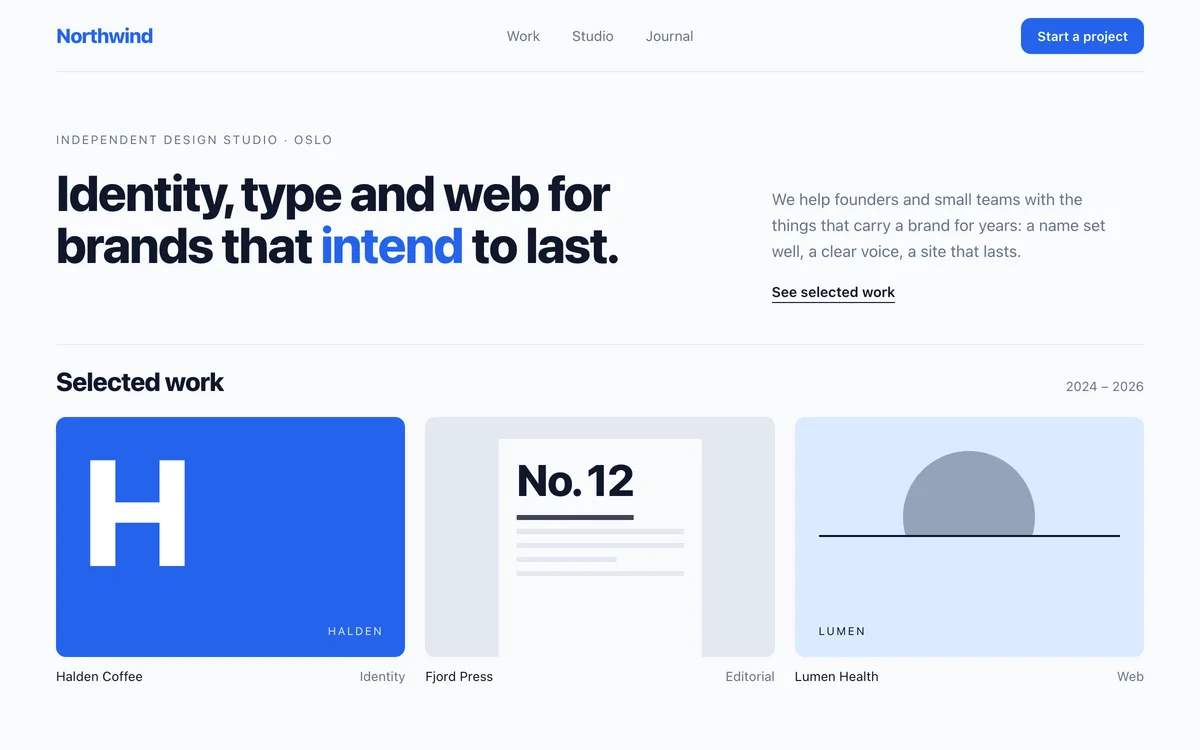
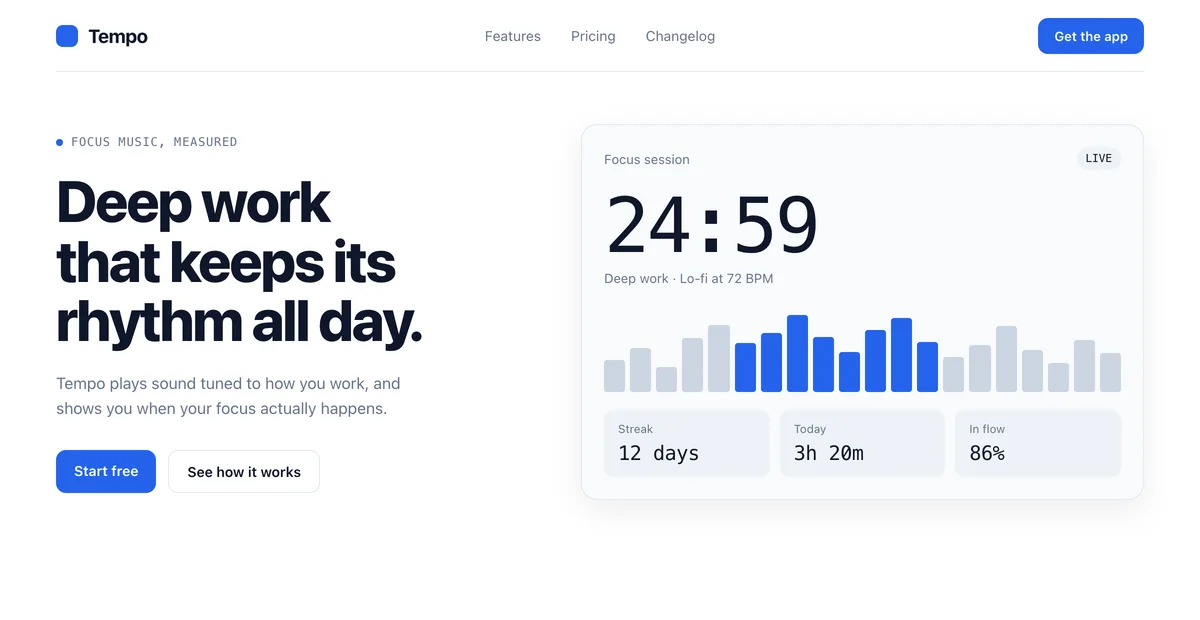
AI-tools example: Tempo, a visual product page instead of the serif studio
A made-up focus-music app keeps its pink, layout and words; the AI borrows a
mood from two dark product sites in the library (plastic.audio,
tomjohn.design): near-black surfaces, warm off-white type, mono numbers, one
blue for data. Free fonts (Geist, Geist Mono). The product mock-up (timer,
waveform, stats) is drawn in CSS from the same variables.

diff --git a/scripts/render-ai-example.ts b/scripts/render-ai-example.ts
@@ -2,12 +2,12 @@
 // scripts/render-ai-example.ts
 //
 // The before/after on the Pro page, and the ethical use it shows. A made-up
-// studio, Northwind, keeps its own layout, words and brand green; an AI tool
-// looks up two studios in the library and borrows principles, not a look: a
-// serif headline over a plain sans body, quiet warm neutrals, one soft
-// highlight. Only free, openly licensed fonts; the references' paid faces are
-// skipped. Every colour in the "after" is one the library returned for a
-// reference (or Northwind's own green), so the picture is a real result.
+// app, Tempo, keeps its own layout, words and brand pink; an AI tool looks up
+// two dark product sites in the library and borrows a mood, not a look:
+// near-black surfaces, warm off-white type, a mono face for numbers, one
+// second colour for data. Only free, openly licensed fonts. Every colour in
+// the "after" is one the library returned for a reference, or Tempo's own
+// pink, so the picture is a real result.
 //
 //   bun scripts/render-ai-example.ts   → public/pro/ai-before.webp, ai-after.webp, ai-example.json
 import { writeFileSync } from 'node:fs'
@@ -17,60 +17,57 @@ import { resolveSite } from '@/lib/read/resolve-site'
 import { getSiteDetail } from '@/lib/read/site-detail'
 
 // Two library sites as references: cues, not a copy of either.
-const REFERENCES = ['goodside.studio', 'compact.studio']
+const REFERENCES = ['plastic.audio/drum-pad', 'tomjohn.design']
+// Tempo is made up; its pink is its own brand colour, taken from no one.
+const BRAND = '#ff4d8d'
+// Free, openly licensed (SIL OFL), on Google Fonts.
+const FONTS = { sans: 'Geist', mono: 'Geist Mono' }
 
-// One page, Northwind's own: the same layout and words in both pictures; only
-// the type and colour variables change. Project tiles are abstract artwork
-// drawn from the palette, so nothing is borrowed from any site.
+// One page, Tempo's own: identical layout and words in both pictures; only the
+// type and colour variables change. The product is drawn in CSS.
 const page = (vars: string, head = '') => `<!doctype html><html><head><meta charset="utf-8">${head}<style>
 :root{${vars}}
 *{box-sizing:border-box}html,body{margin:0}
-body{background:var(--bg);color:var(--ink);font-family:var(--body);-webkit-font-smoothing:antialiased}
+body{background:var(--bg);color:var(--ink);font-family:var(--sans);-webkit-font-smoothing:antialiased;height:620px;overflow:hidden}
 .wrap{padding:0 56px}
 nav{display:grid;grid-template-columns:1fr auto 1fr;align-items:center;height:72px;border-bottom:1px solid var(--line)}
-.logo{font-family:var(--display);font-size:var(--logo-size);font-weight:var(--display-weight);letter-spacing:var(--display-track);color:var(--brand)}
-.links{display:flex;gap:32px;font-size:14px;color:var(--muted)}
+.logo{display:flex;align-items:center;gap:10px;font-weight:700;font-size:19px;letter-spacing:-.02em}
+.logo i{width:22px;height:22px;border-radius:7px;background:var(--brand)}
+.links{display:flex;gap:30px;font-size:14px;color:var(--muted)}
 .cta{justify-self:end;font-size:13px;font-weight:600;padding:10px 16px;border-radius:var(--radius);background:var(--brand);color:var(--on-brand)}
-.hero{display:grid;grid-template-columns:7fr 4fr;gap:64px;align-items:end;padding:60px 0 44px}
-.label{font-size:12px;letter-spacing:.14em;text-transform:uppercase;color:var(--muted);margin:0 0 20px}
-h1{font-family:var(--display);font-weight:var(--display-weight);font-size:var(--h1-size);line-height:1.04;letter-spacing:var(--display-track);margin:0;text-wrap:balance;min-height:calc(2 * 1.04 * 64px)}
-h1 em{font-style:var(--em-style);color:var(--brand)}
-.intro{font-size:16px;line-height:1.6;color:var(--muted);margin:0 0 18px;text-wrap:pretty;max-width:34ch}
-.more{font-size:14px;font-weight:600;color:var(--ink);border-bottom:1px solid var(--ink);padding-bottom:2px}
-.head{display:flex;justify-content:space-between;align-items:baseline;border-top:1px solid var(--line);padding-top:20px}
-.head h2{font-family:var(--display);font-weight:var(--display-weight);font-size:26px;line-height:32px;letter-spacing:var(--display-track);margin:0}
-.head span{font-size:13px;color:var(--muted)}
-.grid{display:grid;grid-template-columns:repeat(3,1fr);gap:20px;margin-top:20px}
-.tile{aspect-ratio:16/11;border-radius:var(--radius);position:relative;overflow:hidden}
-.tile small{position:absolute;font-size:11px;letter-spacing:.16em;text-transform:uppercase}
-.t1{background:var(--brand);color:var(--on-brand)}.t1 b{position:absolute;left:26px;top:18px;font-family:var(--display);font-weight:var(--display-weight);font-size:150px;line-height:1}.t1 small{right:22px;bottom:20px;opacity:.85}
-.t2{background:var(--surface)}.t2 .pg{position:absolute;left:50%;top:22px;bottom:0;width:58%;transform:translateX(-50%);background:var(--bg);padding:18px 18px 0;box-shadow:0 1px 0 var(--line)}
-.t2 .no{font-family:var(--display);font-weight:var(--display-weight);font-size:44px;line-height:1;letter-spacing:var(--display-track)}
-.t2 .ln{height:5px;background:var(--line);margin-top:9px}.t2 .ln:nth-child(2){margin-top:14px;width:70%;background:var(--ink);opacity:.8}.t2 .ln:nth-child(5){width:60%}
-.t3{background:var(--highlight)}.t3 u{position:absolute;width:132px;height:132px;border-radius:50%;background:var(--accent);left:50%;top:34px;transform:translateX(-50%)}
-.t3 s{position:absolute;left:0;right:0;top:118px;bottom:0;background:var(--highlight)}.t3 i{position:absolute;left:24px;right:24px;top:118px;height:2px;background:var(--ink)}
-.t3 small{left:24px;bottom:20px;color:var(--ink)}
-.cap{display:flex;justify-content:space-between;margin:10px 0 0;font-size:13px;line-height:18px}.cap span:last-child{color:var(--muted)}
+.hero{display:grid;grid-template-columns:5fr 6fr;gap:56px;align-items:center;padding:52px 0}
+.label{display:inline-flex;align-items:center;gap:8px;font-family:var(--mono);font-size:12px;letter-spacing:.06em;text-transform:uppercase;color:var(--muted);margin:0 0 22px}
+.label b{width:7px;height:7px;border-radius:50%;background:var(--brand)}
+h1{font-weight:var(--h1-weight);font-size:58px;line-height:1.02;letter-spacing:-.035em;margin:0;text-wrap:balance;min-height:calc(3 * 1.02 * 58px)}
+.intro{font-size:16px;line-height:1.6;color:var(--muted);margin:22px 0 28px;max-width:36ch;text-wrap:pretty}
+.btns{display:flex;gap:12px}.btns span{font-size:14px;font-weight:600;padding:12px 18px;border-radius:var(--radius)}
+.b1{background:var(--brand);color:var(--on-brand)}.b2{border:1px solid var(--line);color:var(--ink)}
+.app{background:var(--surface);border:1px solid var(--line);border-radius:calc(var(--radius) * 1.6);padding:22px;box-shadow:var(--shadow)}
+.top{display:flex;justify-content:space-between;align-items:center;font-size:13px;color:var(--muted)}
+.chip{font-family:var(--mono);font-size:11px;padding:5px 9px;border-radius:999px;background:var(--chip);color:var(--ink)}
+.timer{font-family:var(--mono);font-size:76px;font-weight:500;letter-spacing:-.04em;line-height:1;margin:18px 0 6px}
+.sub{font-size:13px;color:var(--muted)}
+.wave{display:flex;align-items:end;gap:5px;height:84px;margin:22px 0 18px}
+.wave i{flex:1;border-radius:3px;background:var(--data)}
+.wave i.on{background:var(--brand)}
+.stats{display:grid;grid-template-columns:repeat(3,1fr);gap:10px}
+.stat{background:var(--chip);border-radius:var(--radius);padding:12px 14px}
+.stat small{display:block;font-size:11.5px;color:var(--muted)}
+.stat b{display:block;font-family:var(--mono);font-size:20px;font-weight:500;margin-top:6px;letter-spacing:-.02em}
 </style></head><body><div class="wrap">
-<nav><span class="logo">Northwind</span><span class="links"><span>Work</span><span>Studio</span><span>Journal</span></span><span class="cta">Start a project</span></nav>
-<section class="hero"><div><p class="label">Independent design studio · Oslo</p><h1>Identity, type and web for brands that <em>intend</em> to last.</h1></div>
-<div><p class="intro">We help founders and small teams with the things that carry a brand for years: a name set well, a clear voice, a site that lasts.</p><span class="more">See selected work</span></div></section>
-<div class="head"><h2>Selected work</h2><span>2024 – 2026</span></div>
-<div class="grid"><div><div class="tile t1"><b>H</b><small>Halden</small></div><p class="cap"><span>Halden Coffee</span><span>Identity</span></p></div>
-<div><div class="tile t2"><div class="pg"><div class="no">No. 12</div><div class="ln"></div><div class="ln"></div><div class="ln"></div><div class="ln"></div><div class="ln"></div></div></div><p class="cap"><span>Fjord Press</span><span>Editorial</span></p></div>
-<div><div class="tile t3"><u></u><s></s><i></i><small>Lumen</small></div><p class="cap"><span>Lumen Health</span><span>Web</span></p></div></div>
-</div></body></html>`
+<nav><span class="logo"><i></i>Tempo</span><span class="links"><span>Features</span><span>Pricing</span><span>Changelog</span></span><span class="cta">Get the app</span></nav>
+<section class="hero"><div><p class="label"><b></b>Focus music, measured</p><h1>Deep work that keeps its rhythm all day.</h1>
+<p class="intro">Tempo plays sound tuned to how you work, and shows you when your focus actually happens.</p>
+<div class="btns"><span class="b1">Start free</span><span class="b2">See how it works</span></div></div>
+<div class="app"><div class="top"><span>Focus session</span><span class="chip">LIVE</span></div>
+<div class="timer">24:59</div><div class="sub">Deep work · Lo-fi at 72 BPM</div>
+<div class="wave">${[38, 52, 30, 64, 80, 58, 70, 92, 66, 48, 74, 88, 60, 42, 56, 78, 50, 34, 62, 46].map((h, i) => `<i class="${i > 4 && i < 13 ? 'on' : ''}" style="height:${h}%"></i>`).join('')}</div>
+<div class="stats"><div class="stat"><small>Streak</small><b>12 days</b></div><div class="stat"><small>Today</small><b>3h 20m</b></div><div class="stat"><small>In flow</small><b>86%</b></div></div></div>
+</section></div></body></html>`
 
 // The starter: the defaults a new project tends to have.
-const before = page(`--bg:#f8fafc;--ink:#0f172a;--muted:#64748b;--line:#e2e8f0;--brand:#2563eb;--on-brand:#ffffff;--surface:#e2e8f0;--highlight:#dbeafe;--accent:#94a3b8;
---display:system-ui,-apple-system,sans-serif;--body:system-ui,-apple-system,sans-serif;--display-weight:800;--display-track:-.03em;--h1-size:50px;--logo-size:20px;--em-style:normal;--radius:10px`)
-
-// Northwind is a made-up studio; its green is its own brand colour, not taken
-// from anyone.
-const BRAND = '#1f5c45'
-// Free, openly licensed faces only (SIL OFL), both on Google Fonts. The paid
-// faces the references use (Epicene Text, BureauSerif) are skipped.
-const FONTS = { heading: 'Instrument Serif', body: 'Geist' }
+const before = page(`--bg:#ffffff;--ink:#0f172a;--muted:#64748b;--line:#e2e8f0;--brand:#2563eb;--on-brand:#ffffff;--surface:#f8fafc;--chip:#eef2f7;--data:#cbd5e1;
+--sans:system-ui,-apple-system,sans-serif;--mono:ui-monospace,Menlo,monospace;--h1-weight:800;--radius:10px;--shadow:0 10px 30px rgba(15,23,42,.08)`)
 
 async function main() {
   const [a, b] = await Promise.all(REFERENCES.map(async s => {
@@ -78,22 +75,27 @@ async function main() {
     if (!d) throw new Error(`${s} not found`)
     return d
   }))
-  const hex = (d: typeof a, h: string) => d.colors.find(c => c.hex_value.toLowerCase() === h)?.hex_value
-  // The palette mood, from the colours the library returned for each site.
+  const pick = (d: typeof a, h: string) => {
+    const c = d.colors.find(x => x.hex_value.toLowerCase() === h)?.hex_value
+    if (!c) throw new Error(`${h} not returned for ${d.url}`)
+    return c
+  }
+  // The mood, from the colours the library returned for each reference.
   const palette = {
-    background: hex(a, '#ffffff')!,          // goodside.studio: white ground
-    text: hex(b, '#1a1c27')!,                // compact.studio: deep ink, not pure black
-    stone: hex(b, '#dccdc4')!,               // compact.studio: warm stone neutral
-    muted: hex(a, '#696969')!,               // goodside.studio: quiet grey
-    highlight: hex(a, '#ffffd0')!,           // goodside.studio: soft highlight
+    background: pick(a, '#0a0a0a'),   // plastic.audio: near-black ground
+    surface: pick(a, '#1e1e1e'),      // plastic.audio: raised surface
+    text: pick(a, '#e6e2da'),         // plastic.audio: warm off-white type
+    muted: pick(b, '#a3a3a3'),        // tomjohn.design: quiet grey
+    chip: pick(b, '#222222'),         // tomjohn.design: inset surface
+    data: pick(b, '#3a50fc'),         // tomjohn.design: one electric blue, for data
     brand: BRAND,
   }
-  const after = page(`--bg:${palette.background};--ink:${palette.text};--muted:${palette.muted};--line:${palette.stone};--brand:${palette.brand};--on-brand:${palette.background};--surface:${palette.stone};--highlight:${palette.highlight};--accent:${palette.brand};
---display:"${FONTS.heading}", ui-serif, Georgia, serif;--body:"${FONTS.body}", ui-sans-serif, system-ui, sans-serif;--display-weight:400;--display-track:-.015em;--h1-size:64px;--logo-size:28px;--em-style:italic;--radius:2px`,
-    '<link rel="stylesheet" href="https://fonts.googleapis.com/css2?family=Instrument+Serif:ital@0;1&family=Geist:wght@400;600&display=swap">')
+  const after = page(`--bg:${palette.background};--ink:${palette.text};--muted:${palette.muted};--line:${palette.surface};--brand:${palette.brand};--on-brand:${palette.background};--surface:${palette.surface};--chip:${palette.chip};--data:${palette.data};
+--sans:"${FONTS.sans}", ui-sans-serif, system-ui, sans-serif;--mono:"${FONTS.mono}", ui-monospace, monospace;--h1-weight:600;--radius:12px;--shadow:0 30px 80px -30px rgba(0,0,0,.8)`,
+    '<link rel="stylesheet" href="https://fonts.googleapis.com/css2?family=Geist:wght@400;500;600;700&family=Geist+Mono:wght@400;500&display=swap">')
 
   const br = await chromium.launch({ channel: 'chrome' })
-  const p = await br.newPage({ viewport: { width: 1200, height: 750 }, deviceScaleFactor: 2 })
+  const p = await br.newPage({ viewport: { width: 1200, height: 620 }, deviceScaleFactor: 2 })
   for (const [name, html] of [['before', before], ['after', after]] as const) {
     await p.setContent(html, { waitUntil: 'networkidle' }); await p.waitForTimeout(800)
     const png = await p.screenshot()
@@ -101,11 +103,10 @@ async function main() {
   }
   await br.close()
   const example = {
-    studio: 'Northwind',
-    references: REFERENCES,
-    fonts: [FONTS.heading, FONTS.body],
-    skipped: [...new Set([...a.typography, ...b.typography].map(t => t.font_family).filter(f => !Object.values(FONTS).includes(f) && f !== 'Instrument Serif'))],
-    colors: [palette.background, palette.text, palette.stone, palette.highlight, palette.brand],
+    product: 'Tempo',
+    references: REFERENCES.map(r => r.split('/')[0]),
+    fonts: [FONTS.sans, FONTS.mono],
+    colors: [palette.background, palette.surface, palette.text, palette.data, palette.brand],
   }
   writeFileSync('public/pro/ai-example.json', JSON.stringify(example, null, 2) + '\n')
   console.log(JSON.stringify(example))

diff --git a/components/pro-extras.tsx b/components/pro-extras.tsx
@@ -53,17 +53,17 @@ export function ProExtras({ sample }: { sample: ProSample }) {
         title="In your AI tools"
         foot={<span className={CARD.meta}>Inspiration, not imitation: take colours and type as a starting point; don&apos;t copy logos, words, images or layouts, and license any paid font. <Link href="/terms" className="underline underline-offset-2 hover:text-ink">Terms</Link></span>}
       >
-        <p className="text-[14px] leading-[1.45] text-ink">“Find studios with a serif display face. Use their type and colour mood as a starting point for {AI_EXAMPLE.studio}. Keep our green, our layout and our words.”</p>
+        <p className="text-[14px] leading-[1.45] text-ink text-pretty">“Find dark product sites with one bright accent. Use their mood for {AI_EXAMPLE.product}, our focus-music app. Keep our pink, our layout and our words.”</p>
         <div className="mt-3">
-          <CompareSlider before="/pro/ai-before.webp" after="/pro/ai-after.webp" alt={`${AI_EXAMPLE.studio}'s landing page`} />
+          <CompareSlider before="/pro/ai-before.webp" after="/pro/ai-after.webp" alt={`${AI_EXAMPLE.product}'s landing page`} ratio="1200 / 620" />
         </div>
         <ol className="mt-3.5 flex flex-col gap-2.5">
           {[
             <>Searched the library and found {AI_EXAMPLE.references.join(' and ')}.</>,
-            <>Borrowed the principle, not the look: a serif headline over a plain sans body, quiet warm neutrals, one soft highlight.</>,
-            <>Kept {AI_EXAMPLE.studio}&apos;s own green, layout and words, and chose free fonts ({AI_EXAMPLE.fonts.join(', ')}) over the references&apos; paid ones ({AI_EXAMPLE.skipped.join(', ')}).</>,
+            <>Borrowed the mood, not the look: near-black surfaces, warm off-white type, a mono face for numbers, one blue for data.</>,
+            <>Kept {AI_EXAMPLE.product}&apos;s own pink, layout and words, with free fonts ({AI_EXAMPLE.fonts.join(' and ')}).</>,
           ].map((step, i) => (
-            <li key={i} className="grid grid-cols-[18px_minmax(0,1fr)] gap-1.5 text-[13px] leading-[1.45] text-ink-2">
+            <li key={i} className="grid grid-cols-[18px_minmax(0,1fr)] gap-1.5 text-[13px] leading-[1.45] text-ink-2 text-pretty">
               <span className="text-ink-4 tabular-nums">{i + 1}</span><span>{step}</span>
             </li>
           ))}
